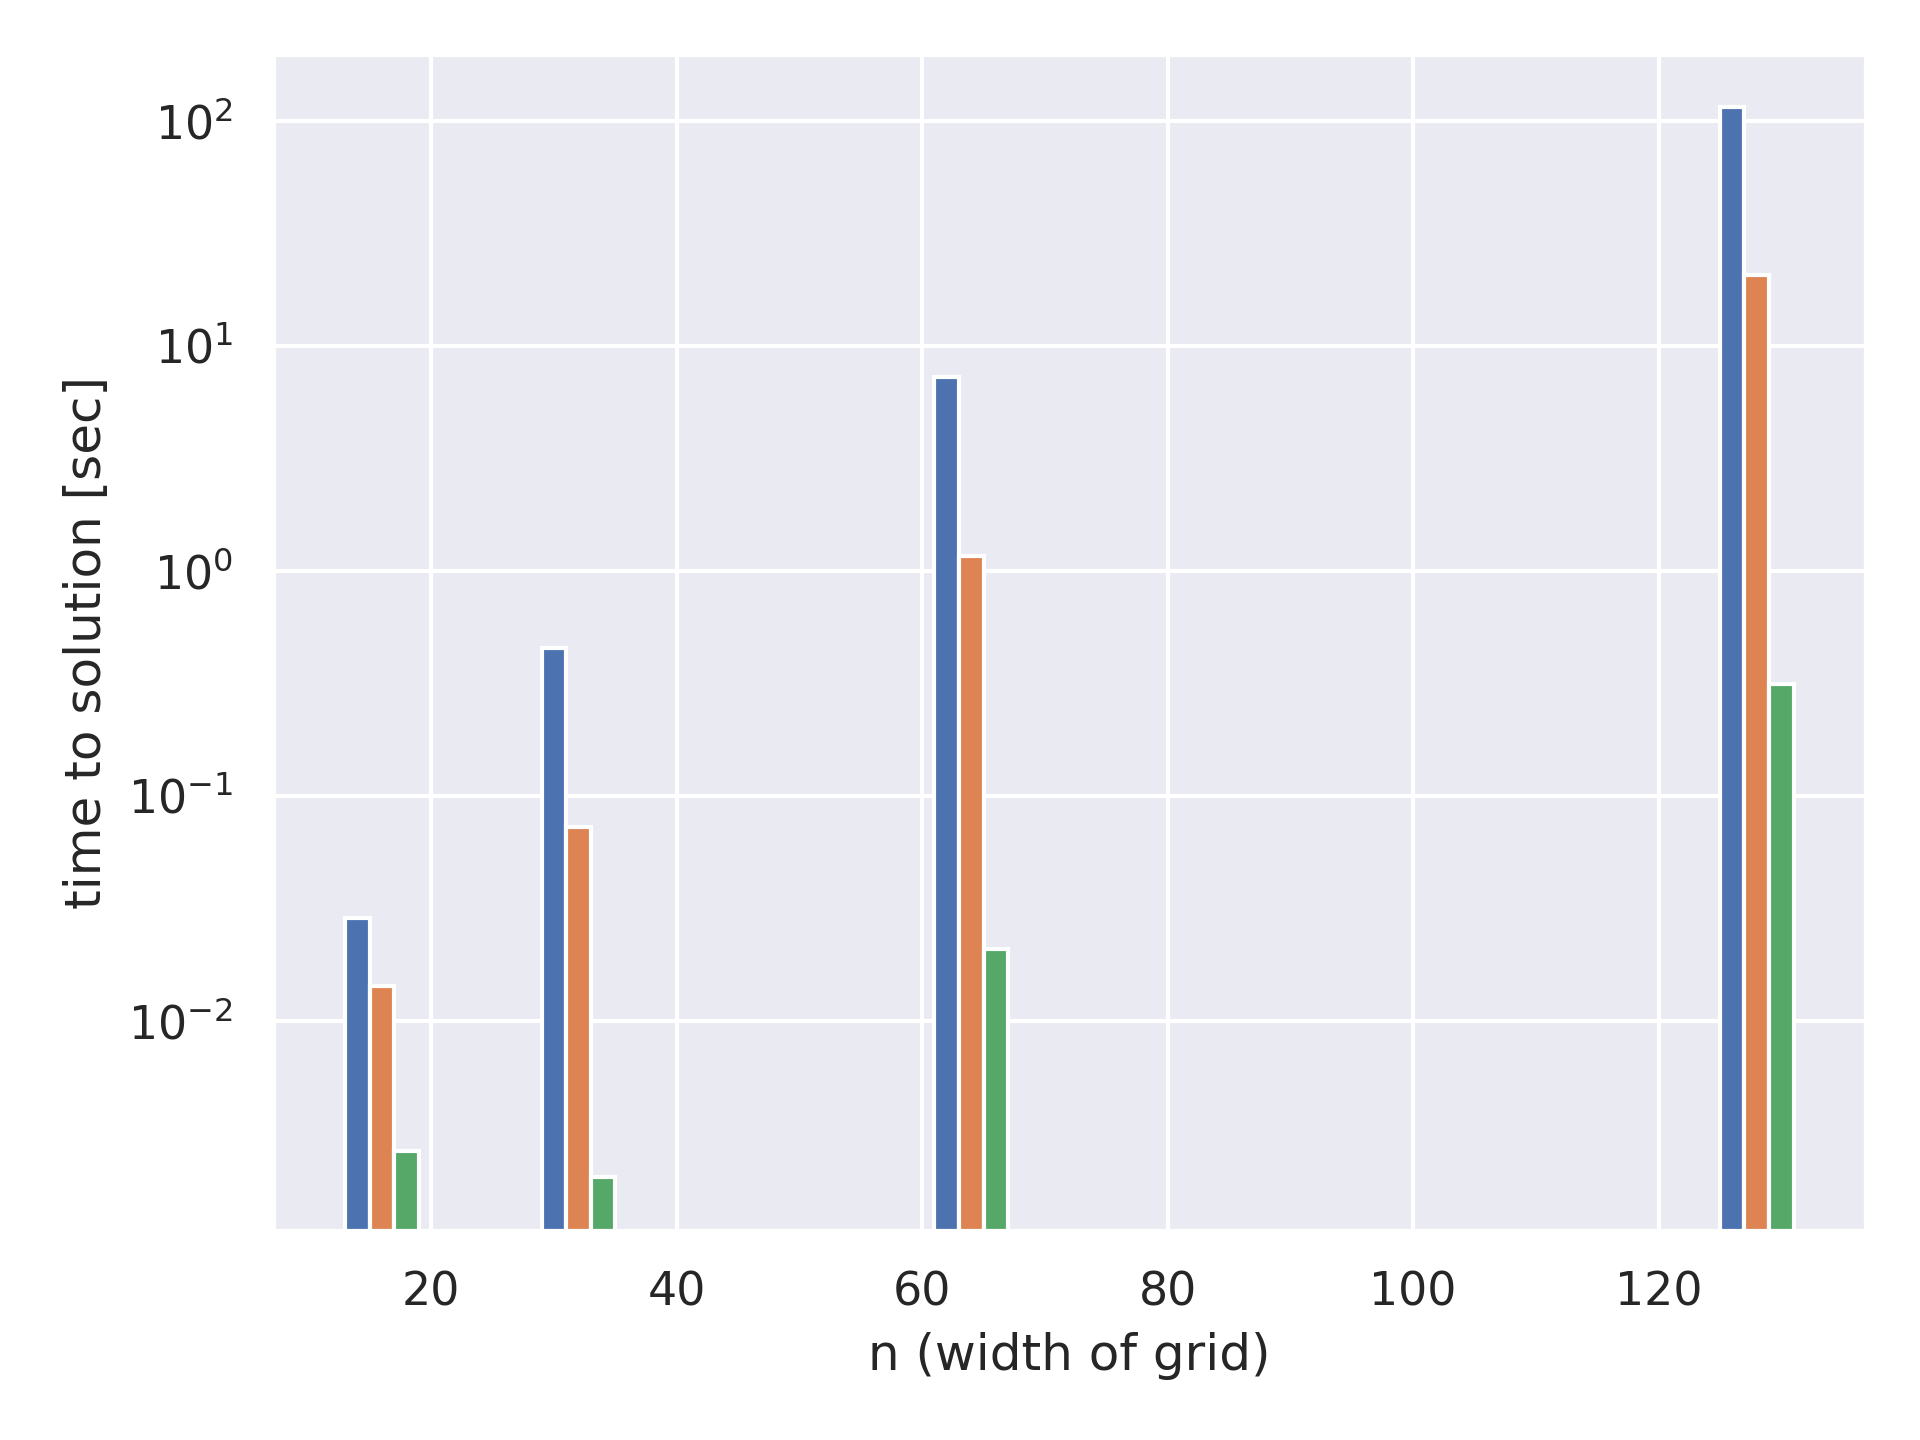
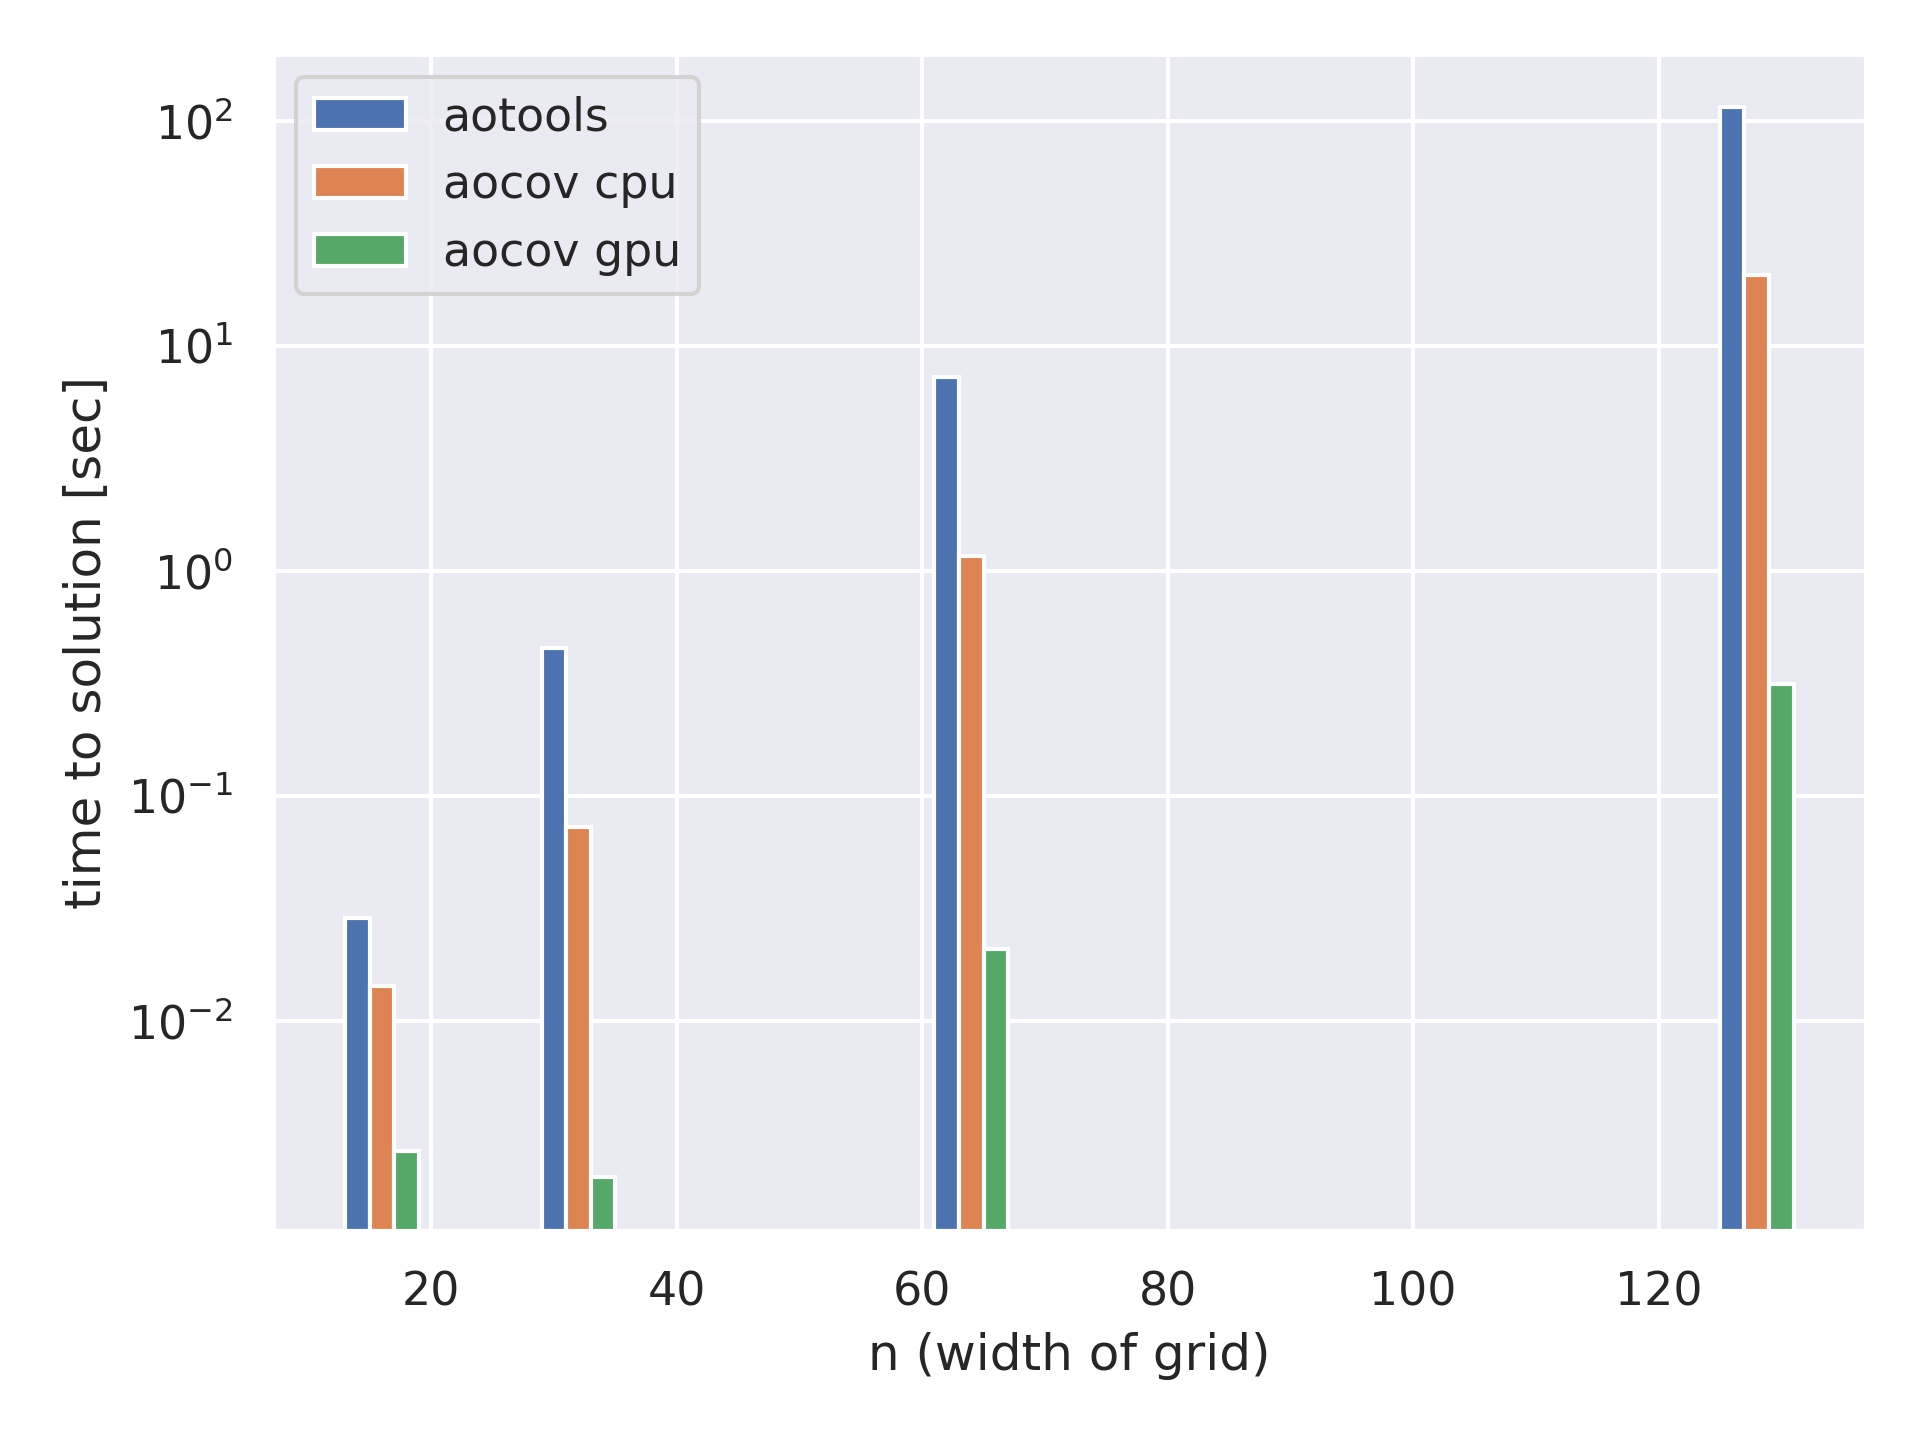
forgot legend

Changed region(s): [[0.1562, 0.0625, 0.375, 0.2188]]

diff --git a/perf/plot_results.py b/perf/plot_results.py
@@ -20,5 +20,6 @@ plt.bar(n+w,aocovgpu,w,label="aocov gpu")
 plt.xlabel("n (width of grid)")
 plt.ylabel("time to solution [sec]")
 plt.yscale("log")
+plt.legend()
 plt.tight_layout()
 plt.savefig("performance.png",dpi=300,transparent=False)

diff --git a/README.md b/README.md
@@ -114,4 +114,7 @@ Using the default parameters on a system 40 cores and a Tesla V100 32GB GPU, I m
 
 For $n=2^7=128$, the covariance matrix has $2^{28}=268\, 435\, 456$ elements. In that case, with a decent GPU, you can produce a covariance matrix $362$ times faster. In the case above, we go from almost 2 minutes to less than 0.5 seconds.
 
-![results](perf/performance.png)
+<p align="center">
+<img style="width:800px" src="https://raw.githubusercontent.com/jcranney/aocov/main/perf/performance.png"
+        alt="timing performance"/>
+</p>
